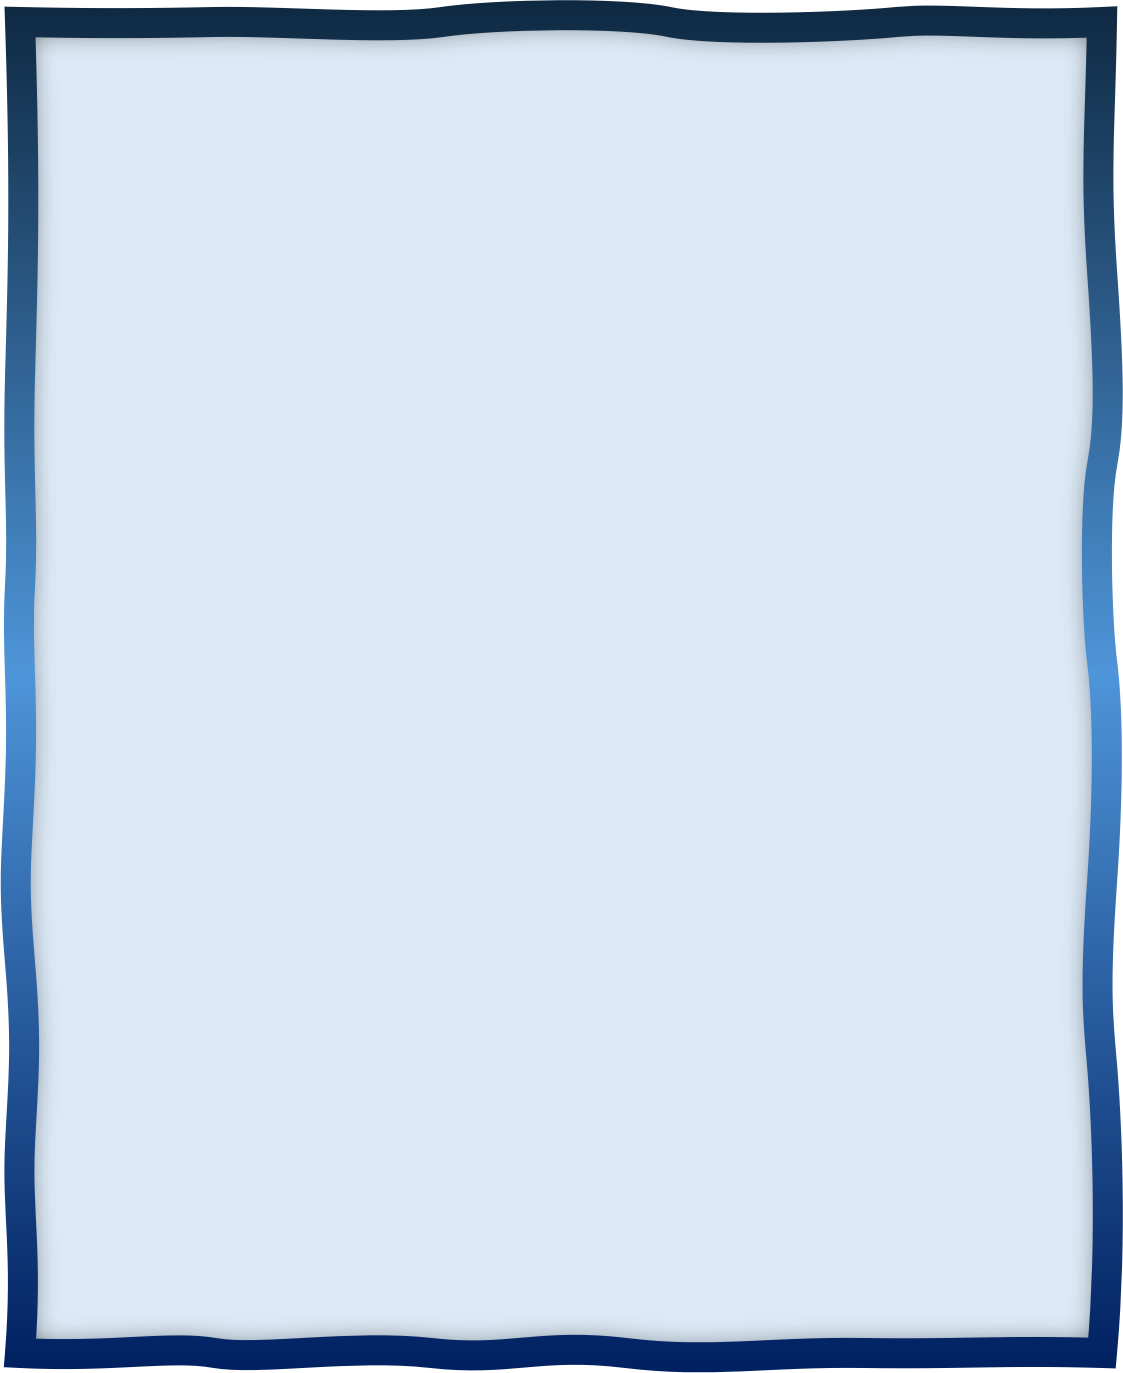
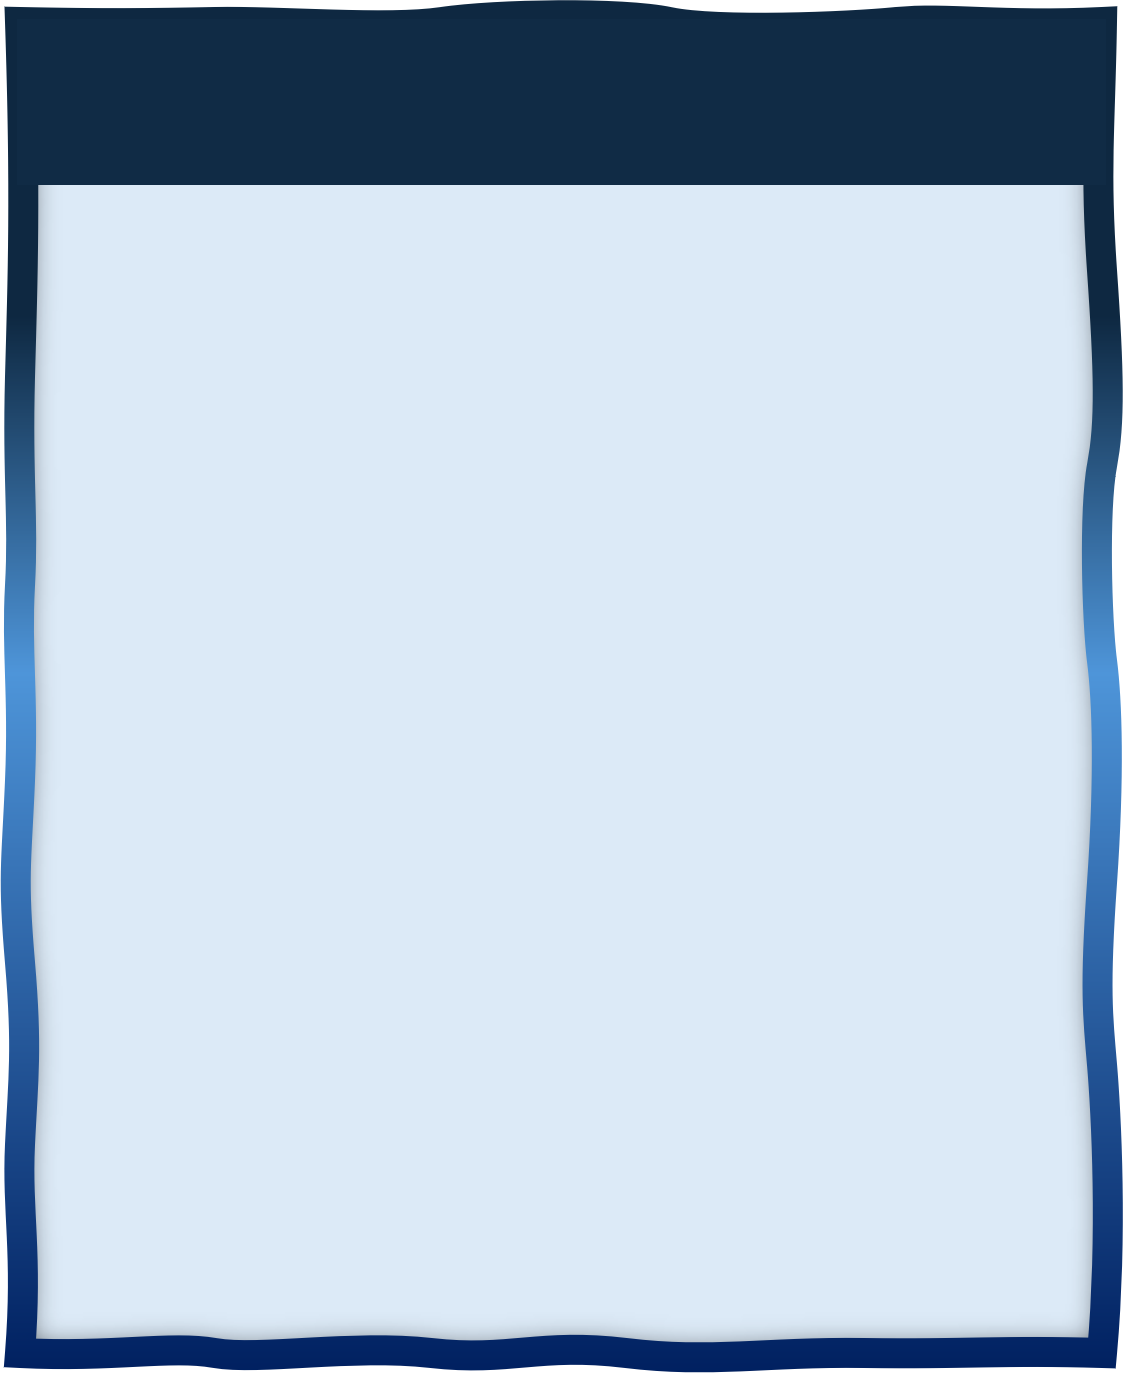
sikanoppaa

Changed region(s): [[0.0, 0.0, 1.0, 0.3977]]

diff --git a/sikanoppa.js b/sikanoppa.js
@@ -155,7 +155,7 @@ function paivitaPelaajanNimi() {
         
         // Tarkistetaan, onko pelaaja nykyinen pelaaja ja päivitetään vuorossa olevan pelaajan nimi
         if (indeksi === nykyinenPelaajaIndeksi) {
-            kukaPelaa.innerHTML = `Vuorossa <br> ${pelaaja.nimi}`;
+            kukaPelaa.innerHTML = `${pelaaja.nimi}`;
         }
     });
 
@@ -165,6 +165,7 @@ function paivitaPelaajanNimi() {
 //////////////////////////////////////////////////////////////////////////////////////
 
 function naytaPelikentta() {
+    klik();
 
     document.getElementById('tulosnaytto').innerHTML = "<img src='sikanoppa-kuvat/possu1.png'>";
     
@@ -377,6 +378,7 @@ function heitaKahtaNoppaa() {
 
    // tyhjennetään mahdollisen aiemman pelin voittaja
     document.getElementById('voittajan-nimi').innerHTML='';
+    ilmoitus.innerHTML ='';
 
     // tyhjennetään yhden nopan pelinäyttö
     document.getElementById('tulosnaytto').style.display = 'none';
@@ -463,7 +465,9 @@ function heitaKahtaNoppaa() {
     // jos jompikumpi nopista on yksi
     if(tulos1 === 1 && tulos2 !=1 || tulos2 === 1 && tulos1 !=1){
         ykkonen();
+        ilmoitus.innerHTML = (`${pelaajaLista[nykyinenPelaajaIndeksi].nimi} sai ykkösen!`);
         nykyinenPelaajaIndeksi = (nykyinenPelaajaIndeksi + 1) % pelaajaLista.length;
+        
         
         paivitaPelaajanNimi();
         noppienSumma = 0;
@@ -476,7 +480,7 @@ function heitaKahtaNoppaa() {
 
     setTimeout(naytaSumma,900);
 
-    
+
 
  
 
@@ -544,7 +548,7 @@ function gameOver(){
     voitto();
 
     document.getElementById('tulosnaytto2').style.display = 'none';
-    document.getElementById('tulosnaytto').style.display = 'block';
+    document.getElementById('tulosnaytto').style.display = 'flex';
     document.getElementById('tulosnaytto').innerHTML ='Voittaja on';
     
 
@@ -553,6 +557,7 @@ function gameOver(){
     noppienSummanaytto.innerHTML = '';
     
     document.getElementById('kukaPelaa-naytto').style.display = 'none';
+    document.getElementById('noppanayton-valikko').style.display = 'none';
     document.getElementById('voittajan-nimi').innerHTML =`<span class='voittaja'> <br> ${pelaajaLista[nykyinenPelaajaIndeksi].nimi}! </span>`;
     document.getElementById('eiheita').disabled = true;
     document.getElementById('heita').disabled = true;
@@ -567,6 +572,7 @@ function gameOver(){
 
 // uuden  pelin aloitus
 function uusiPeli(){
+    document.getElementById('noppanayton-valikko').style.display = 'block';
     document.getElementById('kukaPelaa-naytto').style.display = 'inline-block';
     document.getElementById('tulosnaytto2').style.display = 'flex';
     

diff --git a/sikanoppa.html b/sikanoppa.html
@@ -81,14 +81,21 @@
 
                 
 
-                    <div class="noppien-summanaytto"> <span  id="noppien-summa" >Pisteet: 0</span></div>
+                    
                 
                 
                     <div id="noppanaytto" class="noppanaytto">
+                        <div class="noppanayton-valikko" id="noppanayton-valikko" >
+
+                            <span id="kukaPelaa-naytto" ></span>
+                            <div class="noppien-summanaytto"> <span  id="noppien-summa" >Pisteet: 0</span></div>
+                        </div>
+
+                       
 
                     
                     
-                    <span id="kukaPelaa-naytto" ></span>
+                    
                     
                     <div class="ilmoitusnaytto"> <span id="ilmoitus" ></span> </div>
                     <div class="tulosnaytto" id="tulosnaytto" ></div>

diff --git a/sikanoppa.css b/sikanoppa.css
@@ -33,21 +33,28 @@
     align-items: center;
     margin: 0 auto;
     margin-bottom: 10px;
-   
 
+}
+
+.noppanayton-valikko{
+    position: relative;
+   
 }
 
 #kukaPelaa-naytto{
     position:absolute;
-    top: 10%;
-    left: 0;
-    right: 0;
-    color:rgb(25, 4, 143);
+    top:7px;
+    left: 5%;
+
+    color:white;
     font-weight: bold;
 }
 
 #noppien-summa{
-    color:rgb(25, 4, 143);
+    position:absolute;
+    top: 7px;
+    right: 5%;
+    color:white;
     font-weight: bold;
 
 }
